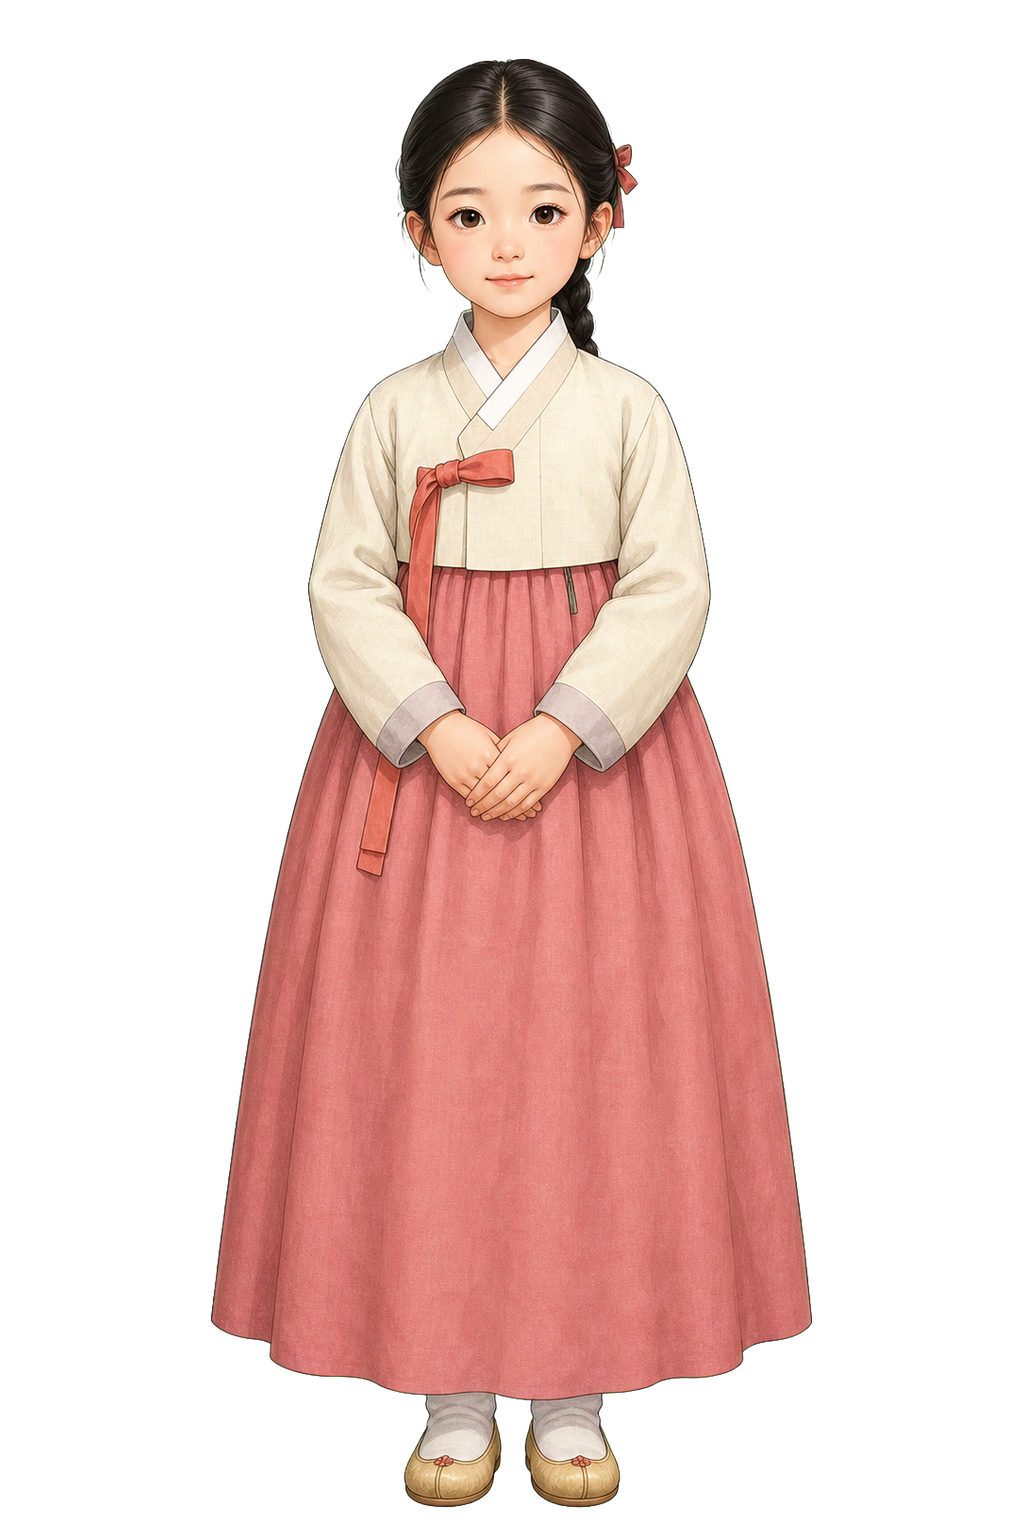
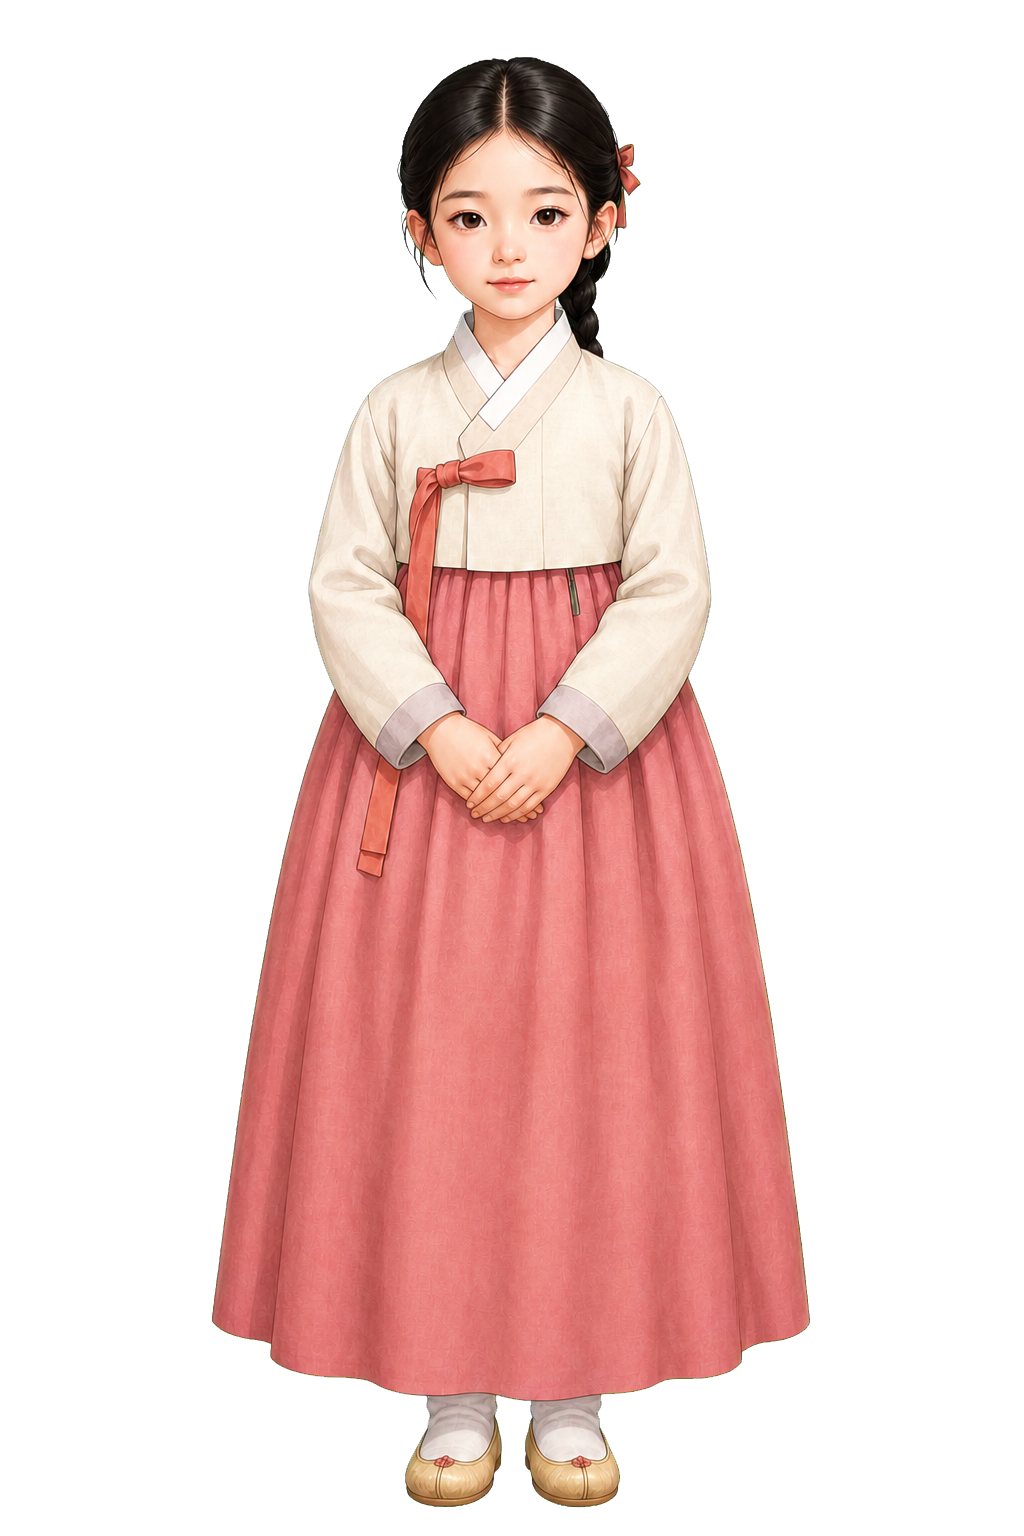
fix: lock Seonhwa face identity across ages

diff --git a/src/index.html b/src/index.html
@@ -4,16 +4,16 @@
   <meta charset="utf-8">
   <meta name="viewport" content="width=device-width,initial-scale=1,viewport-fit=cover">
   <title>선화공주 만들기 — 자산 로딩 테스트</title>
-  <link rel="stylesheet" href="style.css?v=0.61.85-debug">
-  <link rel="stylesheet" href="schedule.css?v=0.61.85-debug">
+  <link rel="stylesheet" href="style.css?v=0.61.86-debug">
+  <link rel="stylesheet" href="schedule.css?v=0.61.86-debug">
   <link rel="stylesheet" href="birthday.css">
-  <link rel="stylesheet" href="prologue.css?v=0.61.85-debug">
+  <link rel="stylesheet" href="prologue.css?v=0.61.86-debug">
   <link rel="stylesheet" href="rain-v2.css">
   <link rel="stylesheet" href="naming.css">
   <link rel="stylesheet" href="live-changes.css?v=0.61.14-debug">
   <link rel="stylesheet" href="collection.css?v=0.61.23-debug">
-  <link rel="stylesheet" href="loading.css?v=0.61.85-debug">
-  <link rel="stylesheet" href="record.css?v=0.61.85-debug">
+  <link rel="stylesheet" href="loading.css?v=0.61.86-debug">
+  <link rel="stylesheet" href="record.css?v=0.61.86-debug">
   <style>.prologue:not(.outdoor-rain) .rain{display:none}</style>
 </head>
 <body>
@@ -151,6 +151,6 @@
       </div>
     </section>
   </main>
-  <script src="story-data.js?v=0.61.85-debug"></script><script src="app.js?v=0.61.85-debug"></script>
+  <script src="story-data.js?v=0.61.86-debug"></script><script src="app.js?v=0.61.86-debug"></script>
 </body>
 </html>

diff --git a/index.html b/index.html
@@ -4,10 +4,10 @@
   <meta charset="utf-8">
   <meta name="viewport" content="width=device-width,initial-scale=1">
   <title>선화공주 만들기</title>
-  <meta http-equiv="refresh" content="0; url=./src/?v=0.61.85-debug">
-  <script>location.replace('./src/?v=0.61.85-debug');</script>
+  <meta http-equiv="refresh" content="0; url=./src/?v=0.61.86-debug">
+  <script>location.replace('./src/?v=0.61.86-debug');</script>
 </head>
 <body>
-  <p><a href="./src/?v=0.61.85-debug">선화공주 만들기 시작하기</a></p>
+  <p><a href="./src/?v=0.61.86-debug">선화공주 만들기 시작하기</a></p>
 </body>
 </html>

diff --git a/docs/SEONHWA_FACE_IDENTITY_GUIDE.md b/docs/SEONHWA_FACE_IDENTITY_GUIDE.md
@@ -1,0 +1,12 @@
+# 선화 얼굴 동일성 기준
+
+선화의 얼굴은 `assets/characters/seonhwa/identity/`의 연령별 기준 이미지로 고정한다.
+
+- 9세: 둥근 볼과 아동 비율을 유지한다.
+- 13세: 얼굴 길이만 조금 성장시키고 이목구비의 간격은 유지한다.
+- 16세: 턱선을 자연스럽게 정돈하되 눈·코·입 형태는 바꾸지 않는다.
+- 18세: 성인 얼굴로 성숙시키되 다른 사람처럼 재설계하지 않는다.
+
+표정 이미지에서는 눈꺼풀, 눈썹 각도, 입 모양과 볼의 긴장만 변경한다. 눈 사이 간격, 코의 폭과 위치, 입술 윤곽, 얼굴형의 기본 골격은 변경하지 않는다. 의상 이미지에서는 헤어스타일과 의상만 변경할 수 있으며, 얼굴은 해당 연령 기준을 그대로 사용한다.
+
+새 의상·표정·바캉스 일러스트를 생성할 때는 반드시 해당 연령 기준 이미지를 정체성 참조 이미지로 함께 사용한다.

diff --git a/README.md b/README.md
@@ -2,6 +2,13 @@
 
 모바일 세로형 육성 시뮬레이션의 이미지 자산 구조와 로딩 테스트입니다.
 
+## v0.61.86-debug — 선화 얼굴 동일성 고정
+
+- 9·13·16·18세 공식 얼굴 기준 이미지를 추가했습니다.
+- 9세 기본 얼굴과 전신 원화를 기준으로 표정 초상 4종을 다시 통일했습니다.
+- 새 표정·의상·바캉스 이미지는 연령별 기준 얼굴을 정체성 참조로 사용하도록 제작 규칙을 기록했습니다.
+- 헤어와 의상은 바뀔 수 있지만 눈·코·입·얼굴 골격은 유지합니다.
+
 ## v0.61.85-debug — 장터 심부름 상단 잘림 수정
 
 - 장터 심부름 배경을 상단 기준으로 맞추고 캐릭터의 상단 위치 충돌을 제거했습니다.

diff --git a/CHANGELOG.md b/CHANGELOG.md
@@ -389,6 +389,12 @@
 ## 변경
 - 비정상 종료 여부와 관계없이 기존 육성 기록이 있으면 프롤로그 전에 이어하기 선택창이 표시됩니다.
 - 자동저장과 다섯 슬롯 중 저장 시간이 가장 최신인 유효 기록을 이어하기 대상으로 선택합니다.
+# v0.61.86-debug · 2026-08-15
+
+- 선화의 9·13·16·18세 공식 얼굴 동일성 기준표 추가
+- 동일한 9세 전신 원화에서 기본·웃음·슬픔·당황 표정 초상 재추출
+- 의상과 표정 생성 시 얼굴 골격을 바꾸지 않는 제작 규칙 및 매니페스트 추가
+
 # v0.61.85-debug · 2026-08-15
 
 - 장터 심부름 배경의 상단을 기준으로 표시해 상부 진열대가 잘리지 않도록 수정
